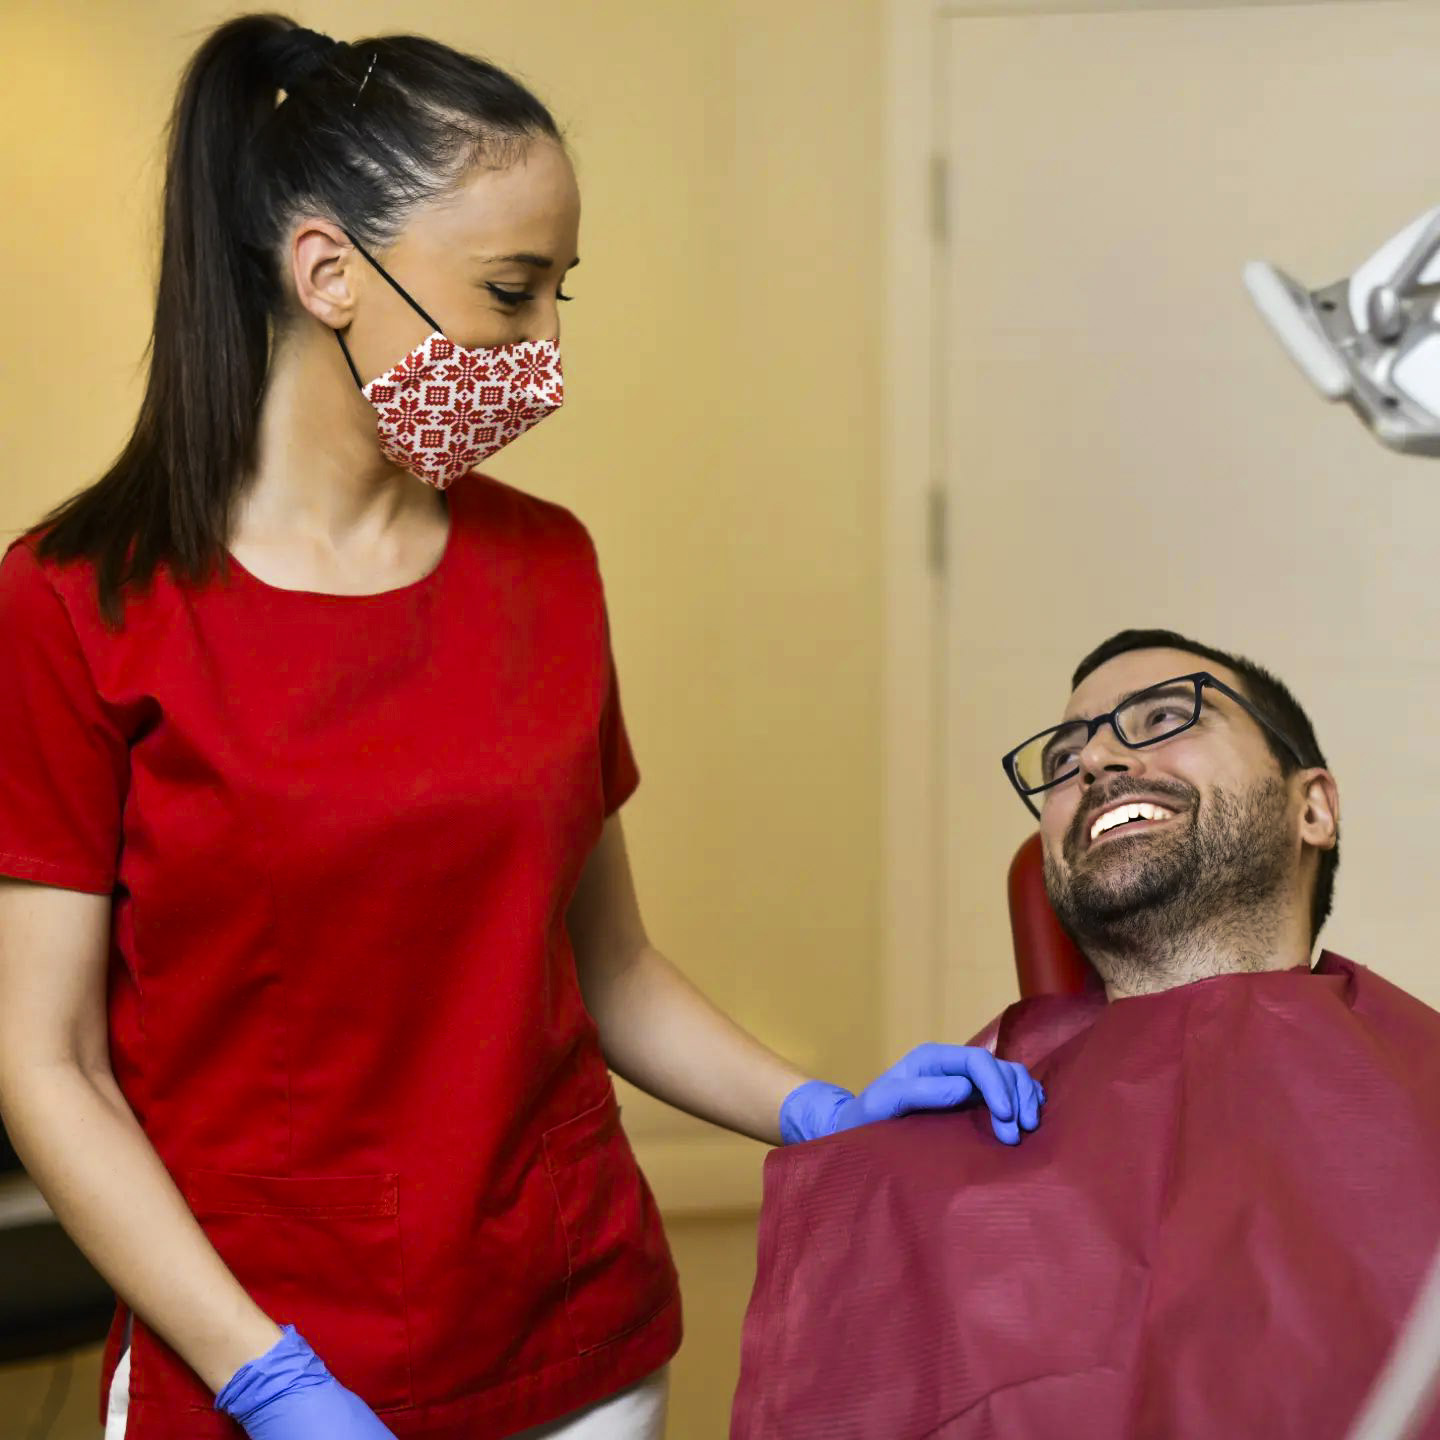
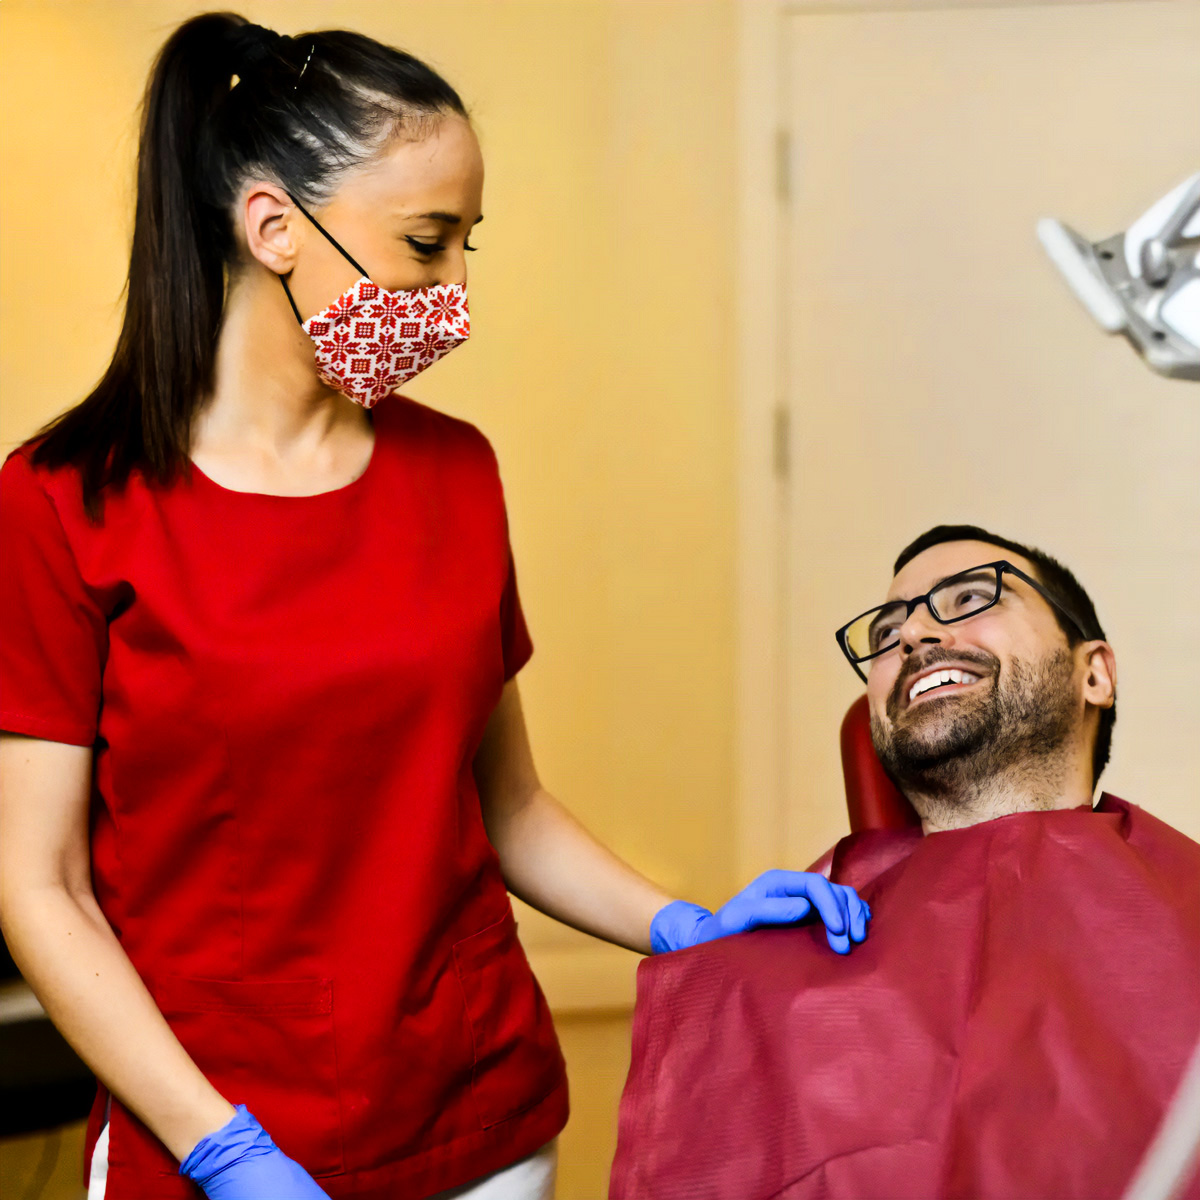
images

diff --git a/styles/difference/diffimage.css b/styles/difference/diffimage.css
@@ -9,11 +9,11 @@
     display:flex;
     flex-direction: column;
     justify-content: center;
-    background-image: linear-gradient(180deg, rgba(0, 0, 0, 0.7), rgba(0, 0, 0, 0.7)), url('../../public/dentalMMM.jpg');
+    background-image: linear-gradient(180deg, rgba(0, 0, 0, 0.7), rgba(0, 0, 0, 0.7)), url('../../public/M3.jpg');
     background-color: var(--text);
     background-repeat: no-repeat;
     background-size: cover;
-    background-position: 50% 80%;
+    background-position:50% 15%;
     position:relative;
     align-items: center;
     overflow: hidden;

diff --git a/styles/firstvisitstyles/firstvisitimage.css b/styles/firstvisitstyles/firstvisitimage.css
@@ -9,11 +9,11 @@
   display:flex;
   flex-direction: column;
   justify-content: center;
-  background-image: linear-gradient(180deg, rgba(0, 0, 0, 0.7), rgba(0, 0, 0, 0.7)), url('../../public/dentalMMM.jpg');
+  background-image: linear-gradient(180deg, rgba(0, 0, 0, 0.7), rgba(0, 0, 0, 0.7)), url('../../public/F1.jpg');
   background-color: var(--text);
   background-repeat: no-repeat;
   background-size: cover;
-  background-position: 50% 80%;
+  background-position: 50% 35%;
   position:relative;
   align-items: center;
   overflow: hidden;

diff --git a/styles/homestyles/homeimage.css b/styles/homestyles/homeimage.css
@@ -9,7 +9,7 @@
     display:flex;
     flex-direction: column;
     justify-content: center;
-    background-image: linear-gradient(180deg, rgba(0, 0, 0, 0.7), rgba(0, 0, 0, 0.7)), url('../../public/dentalMMM.jpg');
+    background-image: linear-gradient(180deg, rgba(0, 0, 0, 0.7), rgba(0, 0, 0, 0.7)), url('../../public/M1.jpg');
     background-color: var(--text);
     background-repeat: no-repeat;
     background-size: cover;

diff --git a/styles/homestyles/homepassion.css b/styles/homestyles/homepassion.css
@@ -47,7 +47,7 @@
     text-shadow: 0.4px 0.4px var(--gold);
 } 
 .homepassion-img {
-    background-image: url('../../public/klassaTop.jpg');
+    background-image: url('../../public/M3.jpg');
     background-repeat: no-repeat;
     background-size: cover;
     background-position: 50% 45%;

diff --git a/styles/homestyles/homedifference.css b/styles/homestyles/homedifference.css
@@ -43,7 +43,7 @@
 
 .homedifference-img {
     width:50%;
-    background-image: url('../../public/klassaTop.jpg');
+    background-image: url('../../public/M2.jpg');
     background-repeat: no-repeat;
     background-size: cover;
     background-position: 50% 50%;

diff --git a/styles/homestyles/homesmile.css b/styles/homestyles/homesmile.css
@@ -68,7 +68,7 @@
 
 .homesmile-img {
     width:40%;
-    background-image: url('../../public/klassaTop.jpg');
+    background-image: url('../../public/M4.jpg');
     background-repeat: no-repeat;
     background-size: cover;
     background-position: 50% 50%;

diff --git a/styles/difference/diffthree.css b/styles/difference/diffthree.css
@@ -76,7 +76,7 @@
   }
   
   .diffthree-img {
-    background-image: url('../../public/klassaTop.jpg');
+    background-image: url('../../public/D2.jpg');
     background-repeat: no-repeat;
     background-size: cover;
     background-position: 50% 50%;

diff --git a/styles/firstvisitstyles/firstvisitone.css b/styles/firstvisitstyles/firstvisitone.css
@@ -73,7 +73,7 @@
 }
 
 .firstvisitone-img {
-    background-image: url('../../public/klassaTop.jpg');
+    background-image: url('../../public/M1.jpg');
     background-repeat: no-repeat;
     background-size: cover;
     background-position: 50% 50%;

diff --git a/styles/difference/difffour.css b/styles/difference/difffour.css
@@ -83,7 +83,7 @@
 }
 
 .difffour-img {
-    background-image: url('../../public/klassaTop.jpg');
+    background-image: url('../../public/D6.jpg');
     background-repeat: no-repeat;
     background-size: cover;
     background-position: 50% 50%;

diff --git a/styles/difference/difftwo.css b/styles/difference/difftwo.css
@@ -82,7 +82,7 @@
 }
  
 .difftwo-img {
-    background-image: url('../../public/klassaTop.jpg');
+    background-image: url('../../public/D0.jpg');
     background-repeat: no-repeat;
     background-size: cover;
     background-position: 50% 50%;

diff --git a/styles/difference/diffone.css b/styles/difference/diffone.css
@@ -73,7 +73,7 @@
 }
 
 .diffone-img {
-    background-image: url('../../public/klassaTop.jpg');
+    background-image: url('../../public/D1.jpg');
     background-repeat: no-repeat;
     background-size: cover;
     background-position: 50% 50%;

diff --git a/styles/firstvisitstyles/firstvisitvideo.css b/styles/firstvisitstyles/firstvisitvideo.css
@@ -22,7 +22,7 @@
 }
 
 .video-left {
-    background-image: url('../../public/klassaTop.jpg');
+    background-image: url('../../public/F2.jpg');
     background-repeat: no-repeat;
     background-size: cover;
     background-position: 50% 50%;
